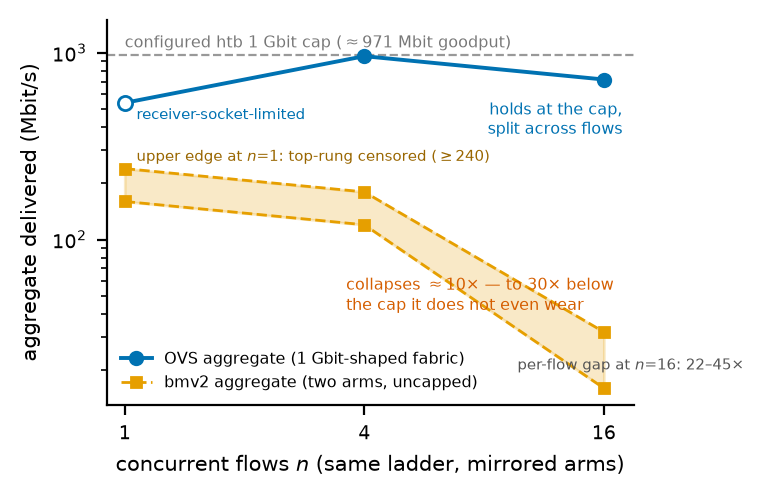
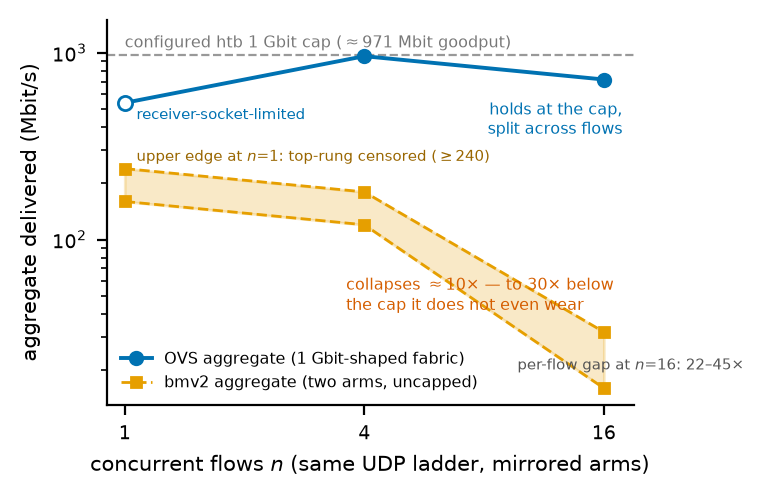
study-figs: fig7 is now what make_survey_figs.py renders, not the superseded PNG
analysis/study-figs/fig7_aggregate_two_planes.png came from the kernel at
d6cb0220, where the PNG was never re-rendered after f3a55a78 (2026-09-01) put
"same UDP ladder" on the x axis. It was byte-identical to
903/figures/_superseded/fig7_..._pre-udp-qualifier-0901.png, so the figure in
study-figs disagreed with the script beside it.

Regenerated with the committed make_survey_figs.py on Python 3.13.13 +
matplotlib 3.11.1. The output is byte-identical to the current
903/figures/fig7_aggregate_two_planes.png; fig5, fig5b, fig6 and fig8 from the
same run, and fig1-fig4 from make_figs.py, match the committed PNGs byte for
byte, so fig7 was the only stale one.

README's Provenance section said exactly one file under analysis/ differs from
d6cb0220; it now lists this one too, with the reason.

Changed region(s): [[0.1204, 0.9073, 0.8429, 0.9677]]

diff --git a/README.md b/README.md
@@ -182,9 +182,18 @@ Everything under `analysis/` was taken verbatim from `NDTwin-Kernel-P4` at commi
 **`d6cb0220`**, read out of the commit rather than off a working tree, and checked file by file
 against that commit's blobs by sha256.
 
-Exactly one file differs, deliberately: **`analysis/study-figs/make_figs.py` line 2**, a comment
-that named a submission venue, is replaced with a neutral description of the script. The
-original line is still in the kernel repository's history.
+The files that differ, each deliberately:
+
+- **`analysis/study-figs/make_figs.py` line 2**, a comment that named a submission venue, is
+  replaced with a neutral description of the script. The original line is still in the kernel
+  repository's history.
+- **`analysis/study-figs/fig7_aggregate_two_planes.png`** is the output of the committed
+  `make_survey_figs.py` (matplotlib 3.11.1), not the PNG at `d6cb0220`. That commit's PNG
+  predates the script's "same UDP ladder" x-axis label (added 2026-09-01) and was identical to
+  `NDTwin slide material 903/figures/_superseded/fig7_aggregate_two_planes_pre-udp-qualifier-0901.png`;
+  the regenerated file is byte-identical to the current
+  `NDTwin slide material 903/figures/fig7_aggregate_two_planes.png`. The other seven PNGs here
+  already matched their scripts' output byte for byte.
 
 One claim inside the archive has aged: `analysis/rounds/2026-08-28_QM-mirrored-block/FINDINGS.md`
 labels `Adam010341/NDTwin-Kernel-P4` as private. That was true on 2026-08-28 and is not true now
